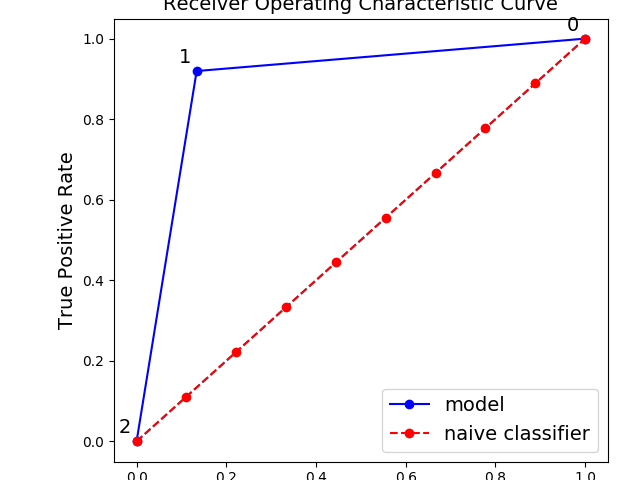
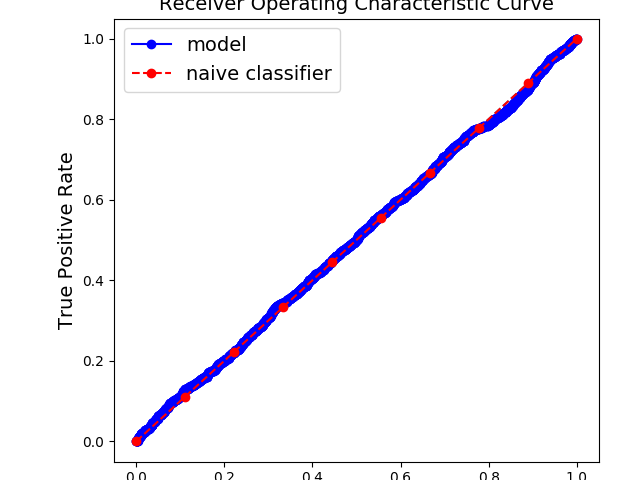
auc

diff --git a/buld/build_models.py b/buld/build_models.py
@@ -543,9 +543,10 @@ var =      [ 0.  , 0., 0., 0., 0., 0., 0., 0., 0., 0., 0., 0., 0., 0., 0., 0., 0
     # |                                                        |
     # |--------------------------------------------------------|
     def model_predict(self, model, params=''):
-        y_pred = model.predict(self.x_test)
+        y_pred_proba = model.predict      (self.x_test)# same as probs  = model.predict_proba(self.x_test)
+
         print(f'labeled   as {self.y_test[0]} highest confidence for index {np.argmax(self.y_test[0])}')
-        print(f'predicted as {y_pred[0]} highest confidence for index {np.argmax(y_pred[0])}')
+        print(f'predicted as {y_pred_proba[0]} highest confidence for index {np.argmax(y_pred_proba[0])}')
 #        print('y_train class distribution',self.y_train.value_counts(normalize=True))
          #print(pd.DataFrame(y_pred).describe())
         x_all = np.concatenate((self.x_train, self.x_test), axis=0)
@@ -556,17 +557,25 @@ var =      [ 0.  , 0., 0., 0., 0., 0., 0., 0., 0., 0., 0., 0., 0., 0., 0., 0., 0
 
 
 
-# Y_true = [0, 1, 0, 1]
+        # Y_true = [0, 1, 0, 1]
         # Y_pred = [1, 1, 1, 0]
         # plot_conf_mtx(Y_true, Y_pred, self.names_output)
 
         Y_true = np.argmax(self.y_test, axis=1)
-        if isinstance(y_pred[0],(np.int64)):#for scikit learn model
-            Y_pred = y_pred
+        if isinstance(y_pred_proba[0],(np.int64)):#for scikit learn model
+            Y_pred = y_pred_proba
         else:
-            Y_pred = np.argmax(y_pred, axis=1)
+            Y_pred = np.argmax(y_pred_proba, axis=1)
         plot_conf_mtx(Y_true, Y_pred, self.names_output, file_name=f'files/output/{params}_confusion.png')
-        plot_roc     (Y_true, Y_pred , file_name=f'files/output/{params}_roc.png')
+
+
+        # keep probabilities for the positive outcome only
+        print('probs1=',y_pred_proba)
+
+
+        y_pred_proba = y_pred_proba[:, 1]
+        print('probs=',y_pred_proba)
+        plot_roc     (Y_true, Y_pred, y_pred_proba , file_name=f'files/output/{params}_roc.png')
 
 
 

diff --git a/buld/utils.py b/buld/utils.py
@@ -9,7 +9,7 @@ import pandas_datareader.data as pdr
 from alpha_vantage.techindicators import TechIndicators
 from alpha_vantage.timeseries import TimeSeries
 from pycm import ConfusionMatrix
-from sklearn.metrics import confusion_matrix, roc_curve
+from sklearn.metrics import confusion_matrix, roc_curve, roc_auc_score
 from sklearn.metrics import precision_recall_fscore_support as scorex
 from sklearn.preprocessing import StandardScaler
 from sklearn.utils import resample
@@ -115,9 +115,11 @@ def plot_confusion_matrix(cm,
     plt.ylabel('True label')
     plt.xlabel('Predicted label')
 
-def plot_roc(Y_true, Y_pred, file_name='files/output/roc.png'):
+def plot_roc(Y_true, Y_pred, probs, file_name='files/output/roc.png'):
     precision, recall, fscore, support = scorex(Y_true, Y_pred)
-    fpr, tpr, thresholds = roc_curve(Y_true, Y_pred)
+    auc = roc_auc_score(Y_true, probs)
+    print('AUC: %.3f' % auc)
+    fpr, tpr, thresholds = roc_curve(Y_true, probs)
     print('\nprecision: {}'.format(precision))
     print('recall: {}'.format(recall))
     print('fscore: {}'.format(fscore))
@@ -126,8 +128,8 @@ def plot_roc(Y_true, Y_pred, file_name='files/output/roc.png'):
     plt.plot([0,1], [0,1], linestyle='--')
     plt.plot(fpr,tpr,'bo-', label = 'model');
     plt.plot(list(np.linspace(0, 1, num = 10)), list(np.linspace(0, 1, num = 10)), 'ro--', label = 'naive classifier');
-    for x, y, s in zip(fpr, tpr, thresholds):
-        plt.text(x - 0.04,y + 0.02, s, fontdict={'size': 14});
+    # for x, y, s in zip(fpr, tpr, thresholds):
+    #     plt.text(x - 0.04,y + 0.02, s, fontdict={'size': 14});
     plt.legend(prop={'size':14})
     plt.ylabel('True Positive Rate', size = 14);
     plt.xlabel('False Positive Rate', size = 14);
